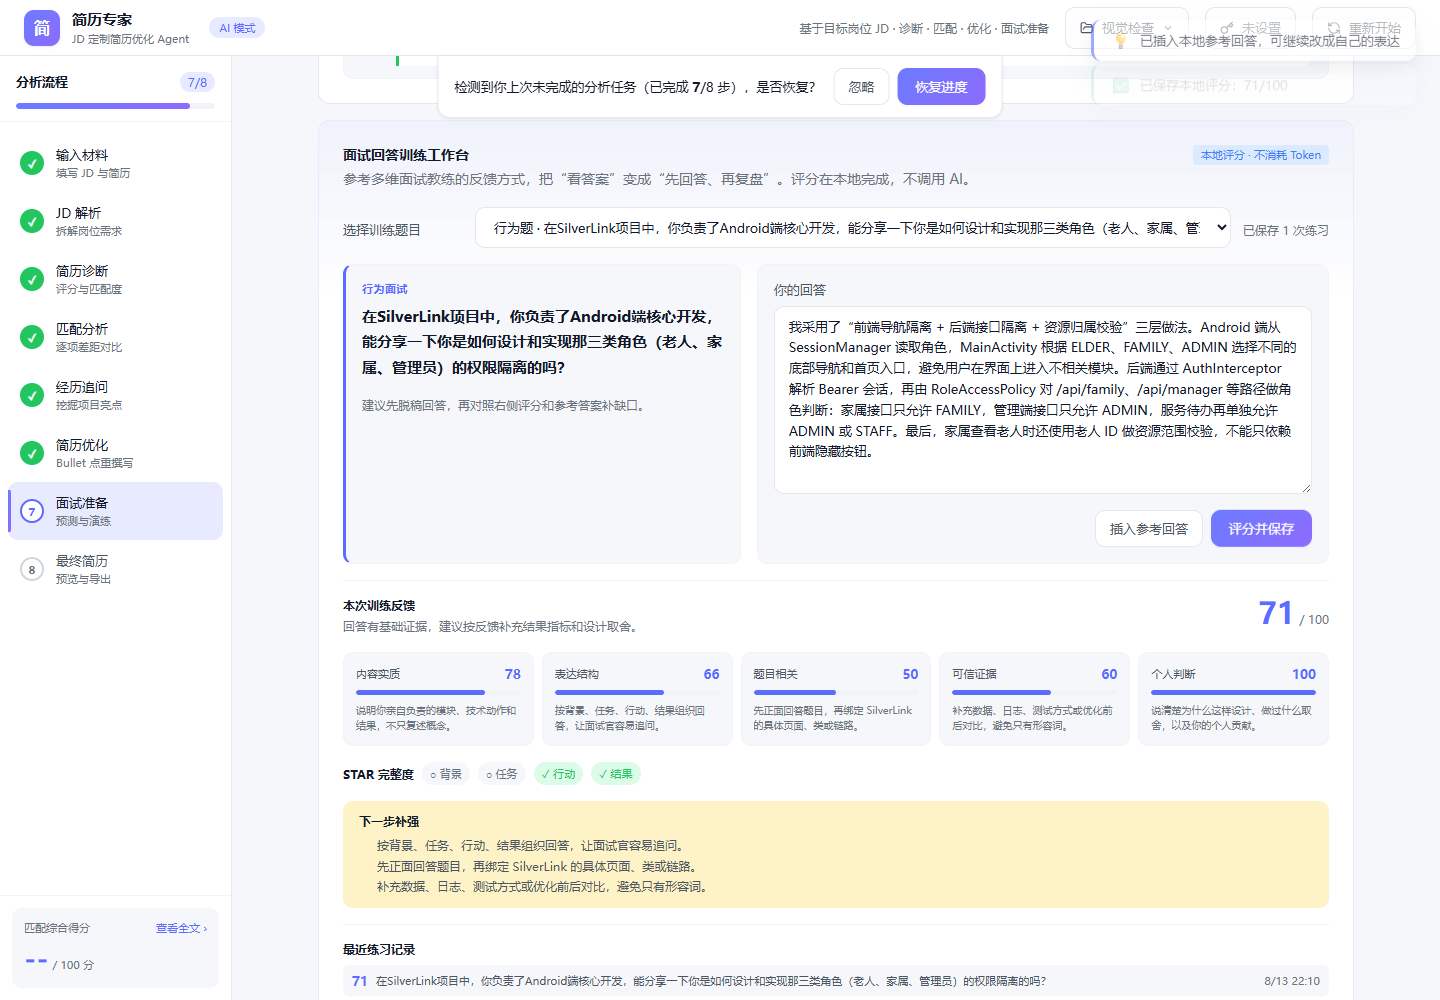
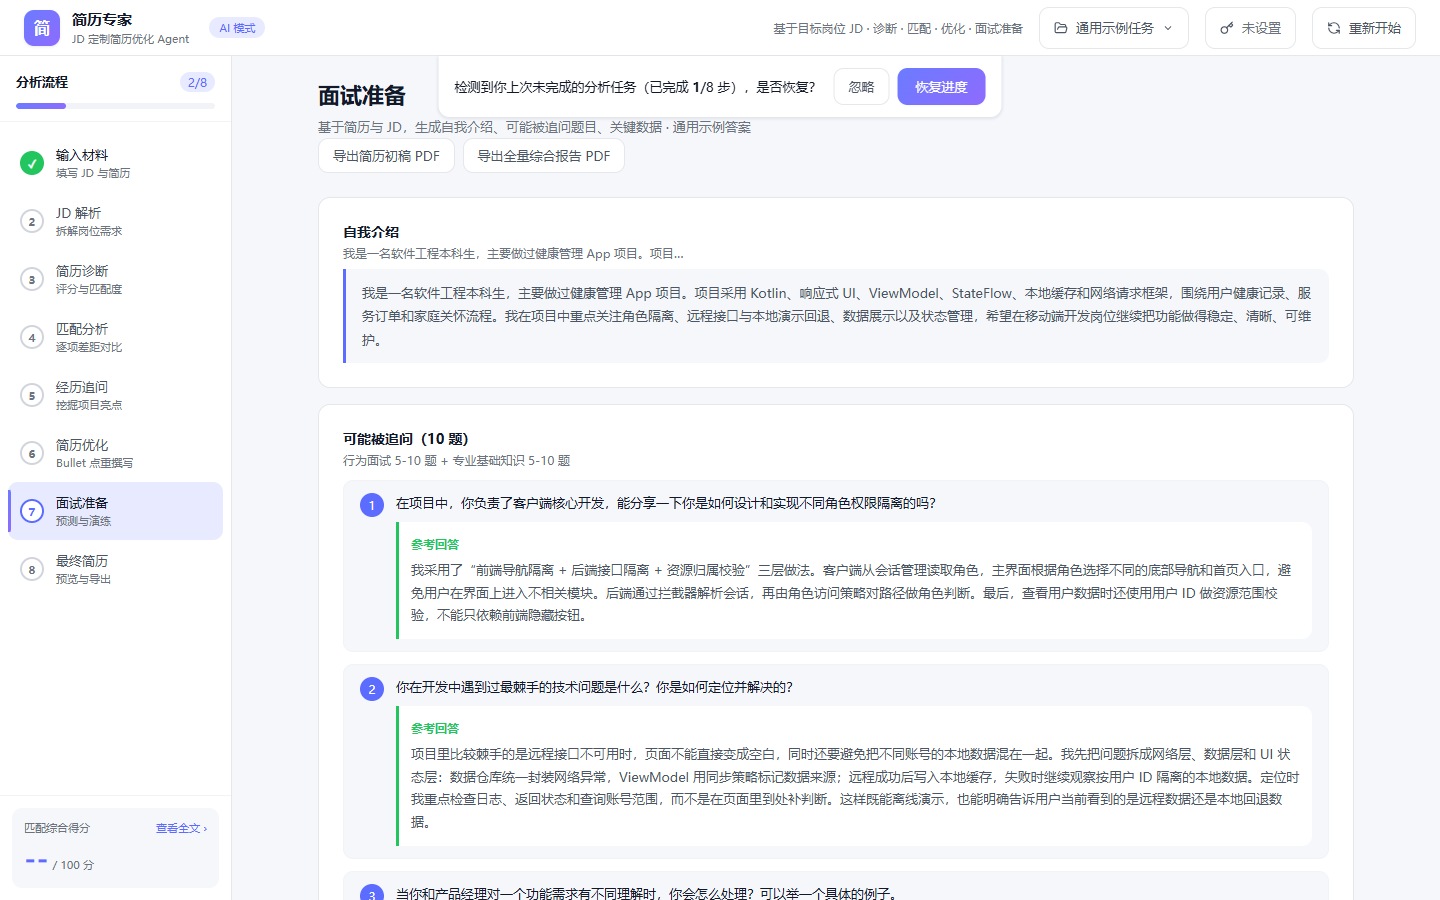
README 文本与截图脱敏：截图重生成用通用示例数据
- README 第 85 行小标题由「加载真实示例数据」改为「加载通用示例数据」
- 4 张 README 截图用通用虚构数据（王小明/健康管理 App）重新生成
- 旧截图基于真实 SilverLink 数据渲染，已全量替换为脱敏版

diff --git a/README.md b/README.md
@@ -39,7 +39,7 @@
 - **面试回答训练评分** — 5 维度（内容实质 / 表达结构 / 题目相关 / 可信证据 / 个人判断）+ STAR 完整度
 
 ### 📂 通用示例数据
-内置完全虚构的示例数据（健康管理 App 完整 8 步分析结果与面试参考答案），一键加载预览真实效果，不含任何真实个人信息。
+内置完全虚构的示例数据（健康管理 App 完整 8 步分析结果与面试参考答案），一键加载即可预览完整渲染效果，不含任何真实个人信息。
 
 ### 🔌 浏览器插件联动
 Chrome 插件选中招聘网站 JD 一键发送 → 本地应用自动填入 + 跳转）。
@@ -82,7 +82,7 @@ node dev-server.mjs
 - 模型：`deepseek-chat`（默认）
 - 可选：在弹窗中点击「测试连通性」验证 API 可达
 
-### 3.（可选）加载真实示例数据
+### 3.（可选）加载通用示例数据
 
 右上角「任务」菜单 → 新建任务 → 在 Step 1 点击「使用示例数据」可加载通用示例的完整 8 步分析结果，无需 API 调用即可预览所有模板渲染效果。
 
